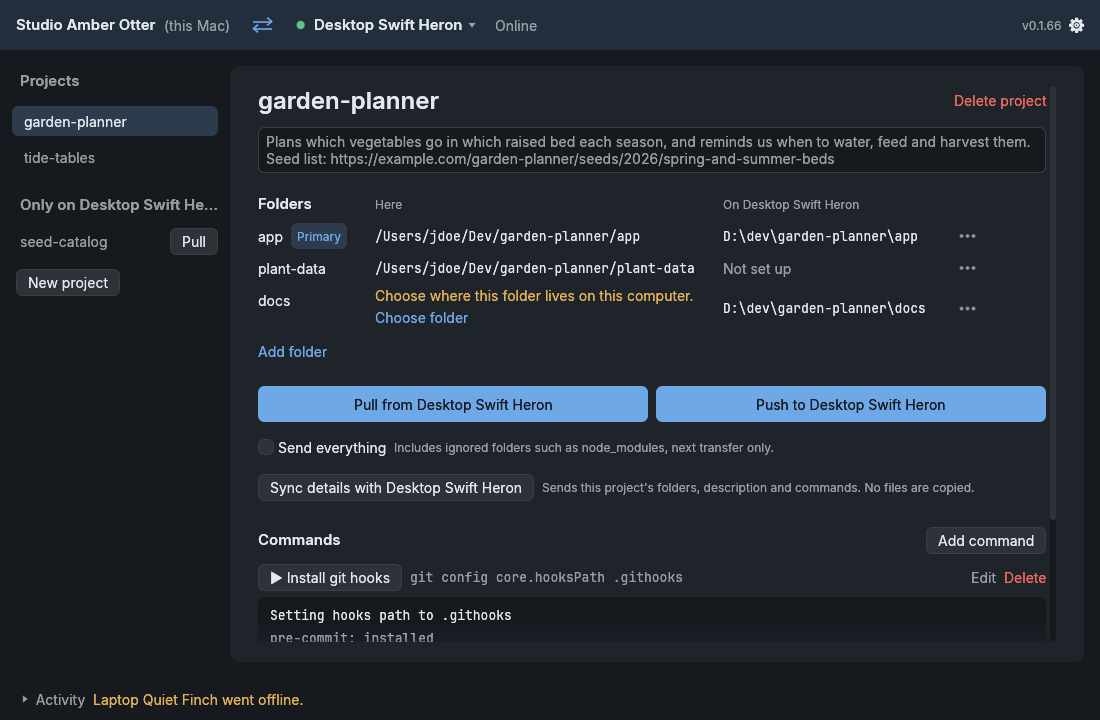
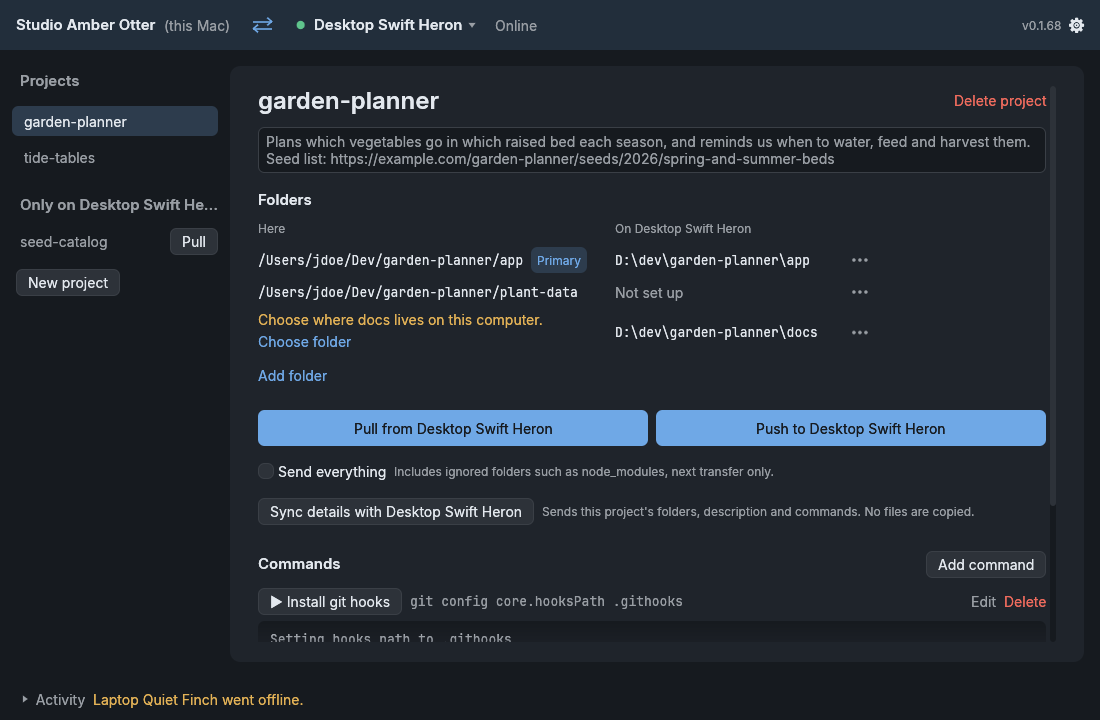
feat: drop the folder name column and cut long paths in the middle
- Long paths keep their last folder, then as much of the start as fits
- The primary badge sits beside the path; a missing folder names itself
- Both path columns share the cut and show the full path on hover

Changed region(s): [[0.2164, 0.275, 0.9582, 0.9167], [0.5564, 0.3972, 0.8345, 0.4889]]

diff --git a/src/ui/folders.rs b/src/ui/folders.rs
@@ -1,5 +1,6 @@
 //! The folders table: where each folder lives here and on the peer.
 
+use super::path_cut::path_cut;
 use super::theme::Palette;
 use super::widgets::{self, display_path};
 use super::{App, Confirm, peer_name};
@@ -8,8 +9,6 @@ use crate::model::{Folder, Project};
 use crate::net::may_ask;
 use crate::protocol::Request;
 use egui::{Grid, Popup, RichText, TextWrapMode, Ui};
-
-pub const NOT_SET_UP_HERE: &str = "Choose where this folder lives on this computer.";
 
 /// The gap between columns, the "More" button that ends each row, and the
 /// narrowest a column gets.
@@ -39,13 +38,13 @@ impl App {
             None => "On the other computer".into(),
         };
         // Worked out before drawing, so the columns can be measured.
-        let here: Vec<Option<RichText>> = p
+        let here: Vec<Option<String>> = p
             .folders
             .iter()
-            .map(|f| Some(widgets::mono(display_path(f.local_path.as_ref()?)).color(pal.ink)))
+            .map(|f| Some(display_path(f.local_path.as_ref()?)))
             .collect();
-        // Each with the hover text it needs, if any.
-        let there: Vec<(RichText, Option<String>)> = p
+        // A path, or a note with the hover text it needs, if any.
+        let there: Vec<Result<String, (&str, Option<String>)>> = p
             .folders
             .iter()
             .map(|f| {
@@ -53,18 +52,18 @@ impl App {
                     .and_then(|r| r.folders.iter().find(|rf| rf.id == f.id))
                     .and_then(|rf| rf.shown.clone().or_else(|| rf.path.clone()));
                 match (path, peer.is_some(), online || remote.is_some()) {
-                    (Some(path), _, _) => (widgets::mono(path).color(pal.ink), None),
-                    (None, false, _) => (muted("No computer selected"), None),
-                    (None, true, false) => (muted("Unknown while offline"), None),
+                    (Some(path), _, _) => Ok(path),
+                    (None, false, _) => Err(("No computer selected", None)),
+                    (None, true, false) => Err(("Unknown while offline", None)),
                     (None, true, true) if !shares => {
                         let name = peer.as_deref().unwrap_or_default();
                         let why = format!(
                             "{name} lets this computer neither push nor pull, so it \
                              doesn't say where its folders are."
                         );
-                        (muted("Not shared with this computer"), Some(why))
+                        Err(("Not shared with this computer", Some(why)))
                     }
-                    (None, true, true) => (muted("Not set up"), None),
+                    (None, true, true) => Err(("Not set up", None)),
                 }
             })
             .collect();
@@ -73,85 +72,87 @@ impl App {
             + ui.spacing().item_spacing.x;
         let natural = [
             widest(
-                0.0,
-                p.folders.iter().map(|f| {
-                    let name = widgets::text_width(ui, RichText::new(&f.name));
-                    if f.id == p.primary {
-                        name + badge
-                    } else {
-                        name
+                widgets::text_width(ui, head("Here")),
+                p.folders.iter().zip(&here).map(|(f, t)| {
+                    let room = if f.id == p.primary { badge } else { 0.0 };
+                    room + match t {
+                        Some(path) => widgets::text_width(ui, widgets::mono(path)),
+                        // It wraps, but gets one line when there is room.
+                        None => widgets::text_width(ui, not_set_up_here(f)),
                     }
                 }),
             ),
             widest(
-                widgets::text_width(ui, head("Here")),
-                here.iter().map(|t| match t {
-                    Some(path) => widgets::text_width(ui, path.clone()),
-                    // It wraps, but gets one line when there is room.
-                    None => widgets::text_width(ui, NOT_SET_UP_HERE),
+                widgets::text_width(ui, head(&there_head)),
+                there.iter().map(|t| match t {
+                    Ok(path) => widgets::text_width(ui, widgets::mono(path)),
+                    Err((note, _)) => widgets::text_width(ui, muted(note)),
                 }),
             ),
-            widest(
-                widgets::text_width(ui, head(&there_head)),
-                there
-                    .iter()
-                    .map(|(t, _)| widgets::text_width(ui, t.clone())),
-            ),
         ];
-        let [name_w, here_w, there_w] = column_widths(ui.available_width(), natural);
+        let [here_w, there_w] = column_widths(ui.available_width(), natural);
+        widgets::section(ui, "Folders");
         Grid::new(("folders", p.id))
-            .num_columns(4)
+            .num_columns(3)
             .spacing([GAP, 6.0])
             // Each cell sets its own column's width below; the last column
             // is only as wide as its button.
             .min_col_width(MORE)
-            .max_col_width(name_w.max(here_w).max(there_w))
+            .max_col_width(here_w.max(there_w))
             .show(ui, |ui| {
-                cell(ui, name_w, |ui| widgets::section(ui, "Folders"));
                 cell(ui, here_w, |ui| ui.label(head("Here")));
                 cell(ui, there_w, |ui| ui.label(head(&there_head)));
                 ui.label("");
                 ui.end_row();
 
-                for ((f, here), (there, why)) in p.folders.iter().zip(here).zip(there) {
-                    cell(ui, name_w, |ui| {
-                        ui.horizontal(|ui| {
-                            // The badge stays whole; a long name gives way.
-                            let primary = f.id == p.primary;
-                            let room = if primary { badge } else { 0.0 };
-                            ui.scope(|ui| {
-                                ui.set_max_width((ui.available_width() - room).max(0.0));
-                                ui.label(RichText::new(&f.name).color(pal.ink));
-                            });
-                            if primary {
-                                widgets::badge(ui, "Primary")
-                                    .on_hover_text("Commands run in the primary folder.");
-                            }
-                        })
-                    });
+                for ((f, here), there) in p.folders.iter().zip(here).zip(there) {
+                    let primary = f.id == p.primary;
                     cell(ui, here_w, |ui| match here {
                         Some(path) => {
-                            ui.label(path);
+                            ui.horizontal(|ui| {
+                                // The badge stays whole; a long path gives way.
+                                let room = if primary { badge } else { 0.0 };
+                                let width = (ui.available_width() - room).max(0.0);
+                                ui.scope(|ui| {
+                                    ui.set_max_width(width);
+                                    path_label(ui, &path, width);
+                                });
+                                if primary {
+                                    primary_badge(ui);
+                                }
+                            });
                         }
                         None => {
                             ui.vertical(|ui| {
                                 ui.spacing_mut().item_spacing.y = 0.0;
                                 ui.add(
                                     egui::Label::new(
-                                        RichText::new(NOT_SET_UP_HERE).color(pal.changed),
+                                        RichText::new(not_set_up_here(f)).color(pal.changed),
                                     )
                                     .wrap(),
                                 );
-                                if widgets::quiet(ui, "Choose folder", Some(pal.route)).clicked() {
-                                    self.pick_path(p, f);
-                                }
+                                ui.horizontal(|ui| {
+                                    if widgets::quiet(ui, "Choose folder", Some(pal.route))
+                                        .clicked()
+                                    {
+                                        self.pick_path(p, f);
+                                    }
+                                    if primary {
+                                        primary_badge(ui);
+                                    }
+                                });
                             });
                         }
                     });
-                    cell(ui, there_w, |ui| {
-                        let r = ui.label(there);
-                        if let Some(why) = why {
-                            r.on_hover_text(why);
+                    cell(ui, there_w, |ui| match there {
+                        Ok(path) => {
+                            path_label(ui, &path, there_w);
+                        }
+                        Err((note, why)) => {
+                            let r = ui.label(muted(note));
+                            if let Some(why) = why {
+                                r.on_hover_text(why);
+                            }
                         }
                     });
                     self.folder_actions(ui, s, p, f);
@@ -201,6 +202,25 @@ impl App {
     }
 }
 
+fn not_set_up_here(f: &Folder) -> String {
+    format!("Choose where {} lives on this computer.", f.name)
+}
+
+fn primary_badge(ui: &mut Ui) {
+    widgets::badge(ui, "Primary").on_hover_text("Commands run in the primary folder.");
+}
+
+/// A path cut down to `width` from the middle, so its last folder stays;
+/// hovering shows it whole.
+fn path_label(ui: &mut Ui, path: &str, width: f32) {
+    let shown = path_cut(path, |t| widgets::text_width(ui, widgets::mono(t)) <= width);
+    let ink = Palette::of(ui.ctx()).ink;
+    let r = ui.label(widgets::mono(&shown).color(ink));
+    if shown != path {
+        r.on_hover_text(path);
+    }
+}
+
 /// The widest of a column's texts, and never under the narrowest column.
 fn widest(head: f32, rest: impl Iterator<Item = f32>) -> f32 {
     rest.fold(head.max(MIN_COL), f32::max)
@@ -217,11 +237,12 @@ fn cell<R>(ui: &mut Ui, width: f32, add: impl FnOnce(&mut Ui) -> R) -> R {
     .inner
 }
 
-/// The widths of the name, here and there columns. Each keeps what it
-/// needs while the table fits; otherwise the widest give way first, down to
-/// one width they share, so short columns keep theirs.
-fn column_widths(available: f32, natural: [f32; 3]) -> [f32; 3] {
-    let room = (available - MORE - 3.0 * GAP).max(3.0 * MIN_COL);
+/// The widths of the columns before "More". Each keeps what it needs while
+/// the table fits; otherwise the widest give way first, down to one width
+/// they share, so short columns keep theirs.
+fn column_widths<const N: usize>(available: f32, natural: [f32; N]) -> [f32; N] {
+    let n = N as f32;
+    let room = (available - MORE - n * GAP).max(n * MIN_COL);
     if natural.iter().sum::<f32>() <= room {
         return natural;
     }
@@ -230,7 +251,7 @@ fn column_widths(available: f32, natural: [f32; 3]) -> [f32; 3] {
     let mut left = room;
     let mut cap = f32::INFINITY;
     for (i, width) in narrowest_first.into_iter().enumerate() {
-        let share = left / (3 - i) as f32;
+        let share = left / (N - i) as f32;
         if width > share {
             cap = share;
             break;

diff --git a/src/ui/path_cut.rs b/src/ui/path_cut.rs
@@ -1,0 +1,77 @@
+//! Paths shortened to fit a table cell.
+
+/// `path` whole if it fits, else with "…" in place of the folders before
+/// its last name. The last name matters most, so it always stays; then as
+/// much of the start as fits. Takes `/` and `\`, as the other computer may
+/// use either. When even "…" and the last name don't fit, the cell cuts
+/// the end off as usual.
+pub fn path_cut(path: &str, fits: impl Fn(&str) -> bool) -> String {
+    if fits(path) {
+        return path.to_string();
+    }
+    let trimmed = path.trim_end_matches(['/', '\\']);
+    let Some(sep) = trimmed.rfind(['/', '\\']) else {
+        return path.to_string();
+    };
+    let head: Vec<char> = path[..sep].chars().collect();
+    if head.is_empty() {
+        return path.to_string();
+    }
+    let tail = &path[sep..];
+    let cut = |keep: usize| {
+        let mut s: String = head[..keep].iter().collect();
+        s.push('…');
+        s.push_str(tail);
+        s
+    };
+    // The most of the start that still fits beside the "…".
+    let (mut lo, mut hi) = (0, head.len().saturating_sub(1));
+    while lo < hi {
+        let keep = (lo + hi).div_ceil(2);
+        if fits(&cut(keep)) {
+            lo = keep;
+        } else {
+            hi = keep - 1;
+        }
+    }
+    cut(lo)
+}
+
+#[cfg(test)]
+mod tests {
+    use super::path_cut;
+
+    fn cut(path: &str, chars: usize) -> String {
+        path_cut(path, |s| s.chars().count() <= chars)
+    }
+
+    #[test]
+    fn a_path_that_fits_stays_whole() {
+        assert_eq!(cut("~/Dev/app", 9), "~/Dev/app");
+    }
+
+    #[test]
+    fn the_last_name_stays_and_the_start_keeps_what_fits() {
+        let p = "/Users/jdoe/Dev/garden-planner/plant-data";
+        assert_eq!(cut(p, 24), "/Users/jdoe/…/plant-data");
+        assert_eq!(cut(p, 13), "/…/plant-data");
+        assert_eq!(cut(p, 4), "…/plant-data");
+        assert_eq!(cut(r"D:\dev\garden-planner\docs", 12), r"D:\dev…\docs");
+    }
+
+    #[test]
+    fn a_trailing_separator_belongs_to_the_last_name() {
+        assert_eq!(cut("/a/bbbbbb/cc/", 8), "/a/…/cc/");
+    }
+
+    #[test]
+    fn a_path_without_folders_is_left_to_the_cell() {
+        assert_eq!(cut("plant-data", 4), "plant-data");
+        assert_eq!(cut("/plant-data", 4), "/plant-data");
+    }
+
+    #[test]
+    fn letters_of_any_width_are_cut_whole() {
+        assert_eq!(cut("/fotos/über/日本語/😀", 7), "/fot…/😀");
+    }
+}

diff --git a/tests/ui_layout.rs b/tests/ui_layout.rs
@@ -41,6 +41,8 @@ fn nothing_runs_past_the_right_edge_of_the_smallest_window() {
         let p = &mut s.projects[0];
         p.name = "garden-planner-for-the-community-allotment-beds".into();
         p.folders[0].name = "garden-planner-web-application-frontend-next".into();
+        p.folders[1].local_path =
+            Some("/Volumes/Projects/clients/community-allotment/garden-planner/plant-data".into());
         p.commands[1].line =
             "cargo run --release -- --config ./config/production.toml --verbose".into();
         s.activity.push(ActivityLine {
@@ -87,13 +89,28 @@ fn a_folder_not_set_up_here_keeps_its_instruction_on_one_line_when_there_is_room
     });
     let h = build(fake, Box::new(NoPicker), SIZE, 1.0, false);
     let lines = h
-        .get_all_by_label("Choose where this folder lives on this computer.")
+        .get_all_by_label_contains("lives on this computer.")
         .map(|n| n.rect().height())
         .collect::<Vec<_>>();
     assert_eq!(lines.len(), 3);
     for height in lines {
         assert!(height < 30.0, "wrapped to {height} points");
     }
+}
+
+#[test]
+fn a_long_folder_path_keeps_its_start_and_last_folder() {
+    let fake = FakeBackend::seeded();
+    let long =
+        "/Volumes/Projects/clients/community-allotment/garden-planner/archive/2026/plant-data";
+    fake.update(|s| s.projects[0].folders[1].local_path = Some(long.into()));
+    let h = build(fake, Box::new(NoPicker), SMALLEST, 1.0, false);
+    // A label keeps its text in the node's value, not its label.
+    let shown = h
+        .get_all_by_label_contains("/Volumes/")
+        .find_map(|n| n.accesskit_node().value())
+        .unwrap_or_default();
+    assert!(shown.ends_with("…/plant-data"), "{shown}");
 }
 
 /// The sheet is pinned at the top, so a taller path would move the button.

diff --git a/src/ui/mod.rs b/src/ui/mod.rs
@@ -10,6 +10,7 @@ pub mod description;
 pub mod dialogs;
 mod folders;
 mod pairing;
+mod path_cut;
 mod peer_folder;
 mod picker;
 mod preview;
